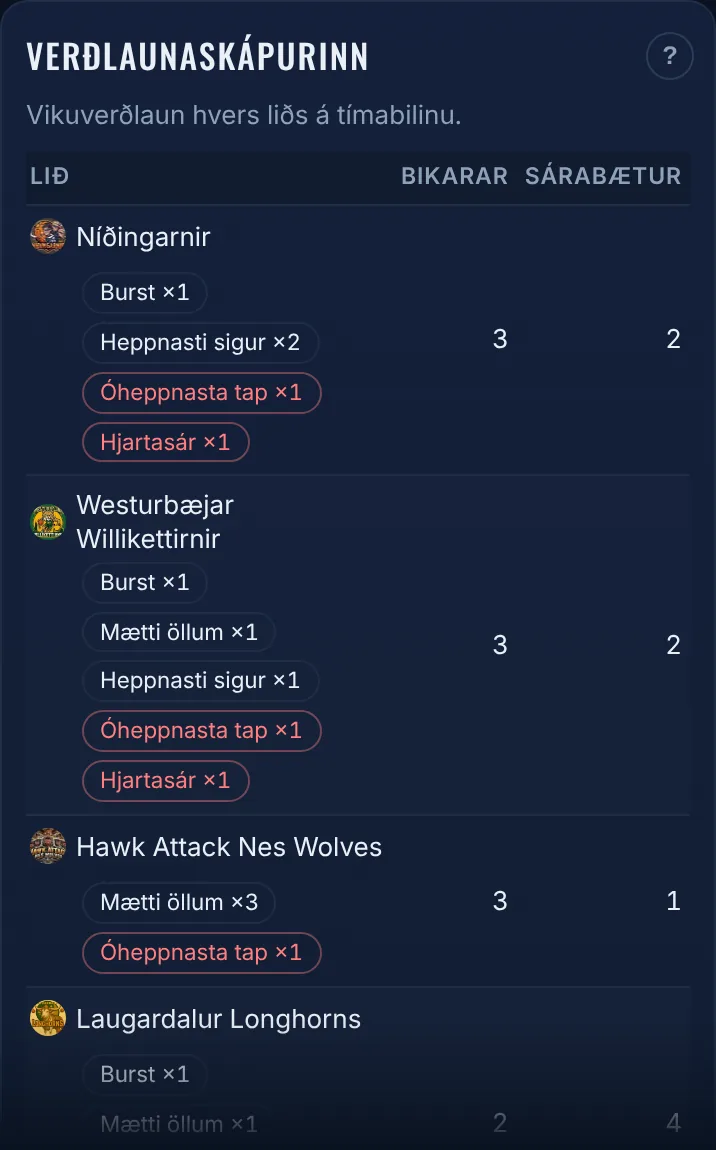
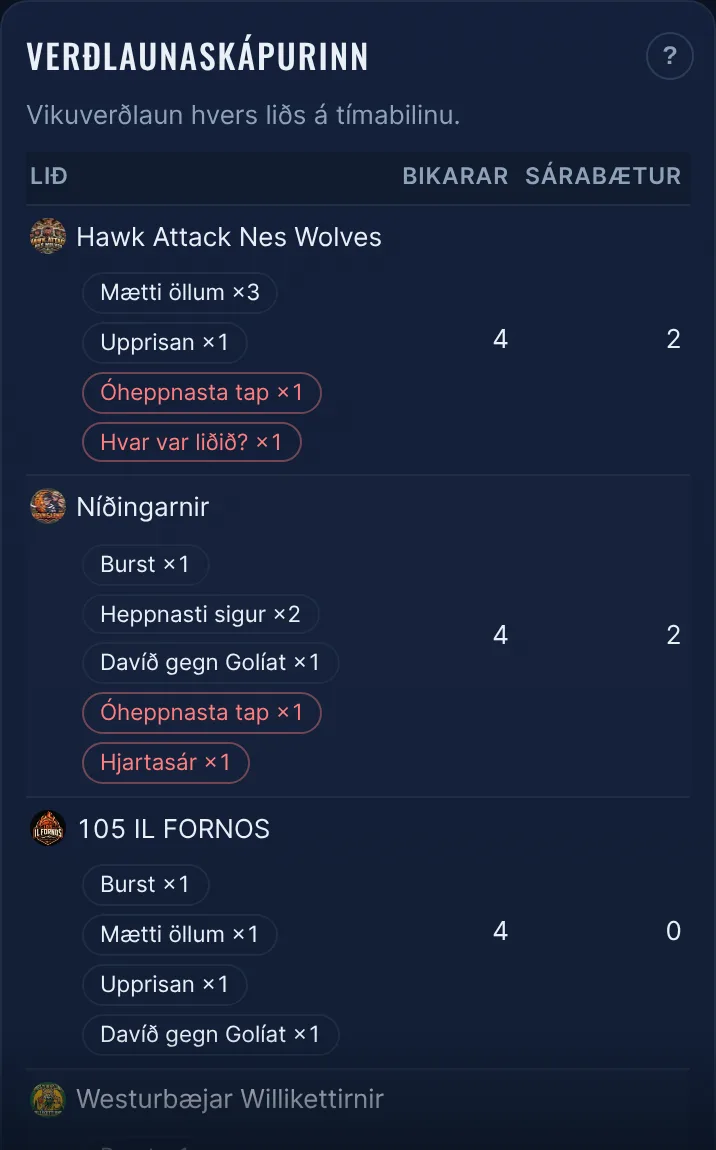
Add four weekly awards: Lenti í liði í stuði, Hvar var liðið mitt?, Upprisan, Davíð gegn Golíat
The awards show on the Vikan card, the Vikuspjald image and in Verðlaunaskápurinn.
Award colours now follow the award, not the position. The Útskýringar text and
screenshots are updated.

Claude-Session: https://claude.ai/code/session_01MjLJrkpXmckZWtqnYsXHCL

diff --git a/index.html b/index.html
@@ -64,10 +64,11 @@ body #dash-root .wx-tab[aria-selected="true"] { background: var(--ice); color: #
 body #dash-root .wx-card, body #dash-root .wx-award, body #dash-root .wx-tile { background: linear-gradient(180deg, #13203a 0%, var(--color-panel) 100%); border-color: var(--color-border-line); }
 body #dash-root .wx-card h3 { font-family: var(--font-display); font-weight: 500; text-transform: uppercase; letter-spacing: .06em; font-size: 1.05rem; }
 body #dash-root .wx-award { border-top: 3px solid var(--ice); }
-body #dash-root .wx-award:nth-child(2) { border-top-color: var(--color-bad); }
-body #dash-root .wx-award:nth-child(3) { border-top-color: var(--orange); }
-body #dash-root .wx-award:nth-child(4) { border-top-color: var(--lilac); }
-body #dash-root .wx-award:nth-child(5) { border-top-color: var(--color-warn); }
+body #dash-root .wx-award[data-award="ohoppni"], body #dash-root .wx-award[data-award="studi"] { border-top-color: var(--color-bad); }
+body #dash-root .wx-award[data-award="burst"], body #dash-root .wx-award[data-award="ovaent"] { border-top-color: var(--orange); }
+body #dash-root .wx-award[data-award="allir"] { border-top-color: var(--lilac); }
+body #dash-root .wx-award[data-award="hjarta"], body #dash-root .wx-award[data-award="hvar"] { border-top-color: var(--color-warn); }
+body #dash-root .wx-award[data-award="upprisa"] { border-top-color: var(--color-ok); }
 body #dash-root .wx-award-t { font-size: 1.3rem; }
 body #dash-root .wx-tile-v { color: #fff; }
 body #dash-root .wx-teamname { font-family: var(--font-display); text-transform: uppercase; font-weight: 700; font-size: clamp(1.8rem, 5vw, 2.6rem); color: #fff; }
@@ -184,6 +185,7 @@ body #dash-root .wx-g2 > .wx-span { grid-column: 1 / -1; }
 @media (max-width: 639px) {
   body #dash-root .wx-awards { grid-template-columns: repeat(2, minmax(0,1fr)); gap: 8px; }
   body #dash-root .wx-award { padding: 10px; }
+  body #dash-root .wx-award:last-child:nth-child(odd) { grid-column: 1 / -1; }
   body #dash-root .wx-award-k { font-size: .64rem; }
   body #dash-root .wx-award-t { font-size: .98rem; line-height: 1.2; }
   body #dash-root .wx-award-t .wx-tn { align-items: flex-start; }
@@ -282,6 +284,7 @@ body #dash-root .wx-duo { display: flex; flex-direction: column; gap: 1rem; min-
 @media (min-width: 900px) {
   body #dash-root .wx-duo { display: grid; grid-template-columns: minmax(0, 26rem) minmax(0, 1fr); align-items: start; }
   body #dash-root .wx-duo .wx-awards { grid-template-columns: repeat(2, minmax(0, 1fr)); }
+  body #dash-root .wx-duo .wx-award:last-child:nth-child(odd) { grid-column: 1 / -1; }
 }
 /* --- Útskýringar (help page) --- */
 body #dash-root .wx-ex { width: 100%; max-width: 44rem; margin: 0 auto; display: flex; flex-direction: column; gap: 1rem; }
@@ -787,7 +790,7 @@ body #dash-root .wx-xs-only-cab { margin: 4px 0 0 26px; }
       <div class="wx-card" id="trophy-card">
         <div class="wx-cardhead"><h3>Verðlaunaskápurinn</h3><button type="button" class="wx-q" aria-expanded="false" aria-label="Skýring"><span>?</span></button></div>
         <p class="wx-note">Vikuverðlaun hvers liðs á tímabilinu.</p>
-        <div class="wx-help" hidden><div><b>Bikarar</b>: burst vikunnar, hefði átt að mæta öllum og heppnasti sigurinn. <b>Sárabætur</b>: óheppnasta tapið og hjartasár vikunnar. Sömu verðlaun og á vikuspjaldinu, ein af hverri tegund á viku.</div></div>
+        <div class="wx-help" hidden><div><b>Bikarar</b>: burst vikunnar, hefði átt að mæta öllum, heppnasti sigurinn, upprisan og Davíð gegn Golíat. <b>Sárabætur</b>: óheppnasta tapið, hjartasár vikunnar, lenti í liði í stuði og hvar var liðið mitt? Sömu verðlaun og á vikuspjaldinu, ein af hverri tegund á viku.</div></div>
         <div class="wx-scroll">
           <table class="wx-t wx-t1 wx-click" id="wx-trophies" data-source="trophies" data-row-key="teamId">
             <thead><tr><th data-field="team">Lið</th><th data-field="cups">Bikarar</th><th data-field="sores">Sárabætur</th><th class="wx-xs-hide" data-field="counts">Í skápnum</th></tr></thead>
@@ -905,21 +908,26 @@ body #dash-root .wx-xs-only-cab { margin: 4px 0 0 26px; }
       <article class="wx-card" id="ex-spjald">
         <h3>Vikuspjaldið</h3>
         <a href="img/utskyringar/spjald.webp" target="_blank" rel="noopener" aria-label="Opna mynd í fullri stærð"><img class="wx-ex-img" src="img/utskyringar/spjald.webp" width="716" height="1150" loading="lazy" alt="Vikuspjaldið"></a>
-        <p>Mynd vikunnar til að senda í spjallið: haltu fingri á henni (eða hægrismelltu) til að vista. Á henni eru fimm verðlaun vikunnar:</p>
+        <p>Mynd vikunnar til að senda í spjallið: haltu fingri á henni (eða hægrismelltu) til að vista. Á henni eru verðlaun vikunnar, þau sömu og á Vikunni:</p>
         <ul>
-          <li><b>Burst vikunnar</b>: stærsti sigurinn.</li>
-          <li><b>Hefði átt að mæta öllum</b>: besta AvA vikunnar.</li>
           <li><b>Heppnasti sigurinn</b>: sigur þrátt fyrir fæst lið unnin í AvA.</li>
           <li><b>Óheppnasta tapið</b>: tap þrátt fyrir flest lið unnin í AvA.</li>
+          <li><b>Burst vikunnar</b>: stærsti sigurinn.</li>
+          <li><b>Hefði átt að mæta öllum</b>: besta AvA vikunnar.</li>
           <li><b>Hjartasár vikunnar</b>: flestir tapaðir tæpir flokkar.</li>
+          <li><b>Lenti í liði í stuði</b>: tapið þar sem mótherjinn spilaði mest yfir eigin meðaltali (AvA vikunnar miðað við meðaltal hans í hinum vikunum, sjá Mótherjinn í stuði).</li>
+          <li><b>Hvar var liðið mitt?</b>: liðið sem spilaði mest undir eigin meðaltali í AvA, hvort sem það vann eða tapaði.</li>
+          <li><b>Upprisan</b>: mesta stökk upp í AvA frá vikunni á undan.</li>
+          <li><b>Davíð gegn Golíat</b>: óvæntasti sigurinn. Fyrir vikuna er borið saman sæti liðanna í töflunni og formið (AvA % síðustu 3 vikna), og sigurinn þar sem sigurvegarinn var samanlagt flestum sætum neðar fær verðlaunin.</li>
         </ul>
+        <p>Í <b>Lenti í liði í stuði</b> og <b>Hvar var liðið mitt?</b> er meðaltalið úr öllum hinum vikunum, líka þeim sem koma seinna, svo verðlaunin geta færst milli liða þegar líður á tímabilið. Þau, Upprisan og Davíð gegn Golíat byrja í 2. viku.</p>
         <div class="wx-more"><button type="button" class="wx-linkbtn" data-goto="vikan">Vikan</button></div>
       </article>
 
       <article class="wx-card" id="ex-skapur">
         <h3>Verðlaunaskápurinn</h3>
         <a href="img/utskyringar/skapur.webp" target="_blank" rel="noopener" aria-label="Opna mynd í fullri stærð"><img class="wx-ex-img" src="img/utskyringar/skapur.webp" width="716" height="1150" loading="lazy" alt="Verðlaunaskápurinn"></a>
-        <p>Öll vikuverðlaun hvers liðs yfir tímabilið. Fyrstu þrjú verðlaunin hér að ofan eru <b>bikarar</b>, hin tvö eru <b>sárabætur</b>.</p>
+        <p>Öll vikuverðlaun hvers liðs yfir tímabilið. <b>Bikarar</b> eru heppnasti sigurinn, burst vikunnar, hefði átt að mæta öllum, upprisan og Davíð gegn Golíat. <b>Sárabætur</b> eru óheppnasta tapið, hjartasár vikunnar, lenti í liði í stuði og hvar var liðið mitt?</p>
         <div class="wx-more"><button type="button" class="wx-linkbtn" data-goto="deildin" data-goseg="met">Deildin → Met</button></div>
       </article>
 
@@ -1127,11 +1135,13 @@ dash.calc('cat_leaders', {
 
 dash.calc('awards', {
   title: 'Verðlaun vikunnar',
-  description: 'Heppnasti sigurinn, óheppnasta tapið, burst vikunnar, besta allir-við-alla vikan og flestir tapaðir tæpir flokkar.',
+  description: 'Heppnasti sigurinn, óheppnasta tapið, burst vikunnar, besta allir-við-alla vikan, flestir tapaðir tæpir flokkar, tap gegn mótherja í stuði, mest undir eigin meðaltali, mesta stökk milli vikna og óvæntasti sigurinn.',
   inputs: ['team_week', 'coinflips'],
   fn: (team_week, coinflips) => {
     const sc = (r) => r.cw + '–' + r.cl + (r.ct ? '–' + r.ct : '');
     const resWord = (r) => (r.res === 1 ? 'sigur' : r.res === 0 ? 'tap' : 'jafntefli');
+    const f11 = (pct) => (pct * 11).toFixed(1).replace('.', ',');
+    const pc = (pct) => Math.round(pct * 100) + ' %';
     const out = [];
     for (const w of [...new Set(team_week.map((r) => r.week))]) {
       const rows = team_week.filter((r) => r.week === w && r.res !== null);
@@ -1144,12 +1154,44 @@ dash.calc('awards', {
       const blow = [...wins].sort((a, b) => b.cw - b.cl - (a.cw - a.cl))[0];
       add('burst', 'Burst vikunnar', blow, blow && `Vann ${blow.opp} ${sc(blow)}.`);
       const best = [...rows].sort((a, b) => b.apPct - a.apPct || b.catPts - a.catPts)[0];
-      add('allir', 'Hefði átt að mæta öllum', best, best && `${best.apW}-${best.apL}-${best.apT} gegn öllum og ${best.catPts} af ${best.catMax} flokkum. Raunin: ${resWord(best)} gegn ${best.opp}.`);
+      add('allir', 'Hefði átt að mæta öllum', best, best && `${best.apW}-${best.apL}-${best.apT} gegn öllum og ${String(best.catPts).replace('.', ',')} af ${best.catMax} flokkum. Raunin: ${resWord(best)} gegn ${best.opp}.`);
       const lostFlips = {};
       for (const f of coinflips.filter((f) => f.week === w && f.outcome === 'L')) (lostFlips[f.teamId] ??= []).push(f.label);
       const hb = Object.entries(lostFlips).sort((a, b) => b[1].length - a[1].length)[0];
       const hbRow = hb && rows.find((r) => r.teamId === hb[0]);
       add('hjarta', 'Hjartasár vikunnar', hbRow, hb && `Tapaði ${hb[1].length} tæpum ${hb[1].length > 1 ? 'flokkum' : 'flokki'}: ${hb[1].join(', ')}.`);
+      // the team's AvA this week against its average in every other week (none until there are two weeks)
+      const own = rows.map((r) => {
+        const rest = team_week.filter((x) => x.teamId === r.teamId && x.week !== w);
+        return rest.length ? { r, base: rest.reduce((s, x) => s + x.apPct, 0) / rest.length } : null;
+      }).filter(Boolean);
+      const vsBase = Object.fromEntries(own.map((o) => [o.r.teamId, o]));
+      const hot = losses.map((r) => ({ r, o: vsBase[r.oppId] })).filter((x) => x.o && x.o.r.apPct > x.o.base)
+        .sort((a, b) => b.o.r.apPct - b.o.base - (a.o.r.apPct - a.o.base) || b.r.apW - a.r.apW)[0];
+      add('studi', 'Lenti í liði í stuði', hot?.r, hot && `Tapaði ${sc(hot.r)} fyrir ${hot.r.opp}, sem vann ${hot.o.r.apW} af 11 liðum í vikunni en vinnur annars ${f11(hot.o.base)} að meðaltali.`);
+      const off = own.filter((o) => o.r.apPct < o.base).sort((a, b) => a.r.apPct - a.base - (b.r.apPct - b.base))[0];
+      add('hvar', 'Hvar var liðið mitt?', off?.r, off && `Vann aðeins ${off.r.apW} af 11 liðum en vinnur annars ${f11(off.base)} að meðaltali. Raunin: ${resWord(off.r)} gegn ${off.r.opp}.`);
+      const prevRow = Object.fromEntries(team_week.filter((x) => x.week === w - 1).map((x) => [x.teamId, x]));
+      const rise = rows.filter((r) => prevRow[r.teamId] && r.apPct > prevRow[r.teamId].apPct)
+        .sort((a, b) => b.apPct - prevRow[b.teamId].apPct - (a.apPct - prevRow[a.teamId].apPct))[0];
+      add('upprisa', 'Upprisan', rise, rise && `Úr ${prevRow[rise.teamId].apW} í ${rise.apW} af 11 liðum milli vikna.`);
+      // upset: the winner's place in the table and in recent form (AvA of the last 3 weeks) before this week, against the loser's
+      const before = team_week.filter((x) => x.week < w && x.res !== null);
+      if (before.length) {
+        const st = {};
+        for (const x of before) {
+          const t = (st[x.teamId] ??= { teamId: x.teamId, g: 0, pts: 0, cats: 0, form: [] });
+          t.g++; t.pts += x.res; t.cats += x.cw + x.ct / 2; t.form.push([x.week, x.apPct]);
+        }
+        const ts = Object.values(st);
+        ts.forEach((t) => { const f = t.form.sort((a, b) => a[0] - b[0]).slice(-3); t.recent = f.reduce((s, x) => s + x[1], 0) / f.length; });
+        [...ts].sort((a, b) => b.pts / b.g - a.pts / a.g || b.cats - a.cats).forEach((t, i) => { t.rank = i + 1; });
+        [...ts].sort((a, b) => b.recent - a.recent).forEach((t, i) => { t.formRank = i + 1; });
+        const up = wins.map((r) => ({ r, me: st[r.teamId], op: st[r.oppId] })).filter((x) => x.me && x.op)
+          .map((x) => ({ ...x, gap: x.me.rank - x.op.rank + x.me.formRank - x.op.formRank }))
+          .filter((x) => x.gap > 0).sort((a, b) => b.gap - a.gap || a.r.apW - b.r.apW)[0];
+        add('ovaent', 'Davíð gegn Golíat', up?.r, up && `Vann ${up.r.opp} ${sc(up.r)}. Fyrir vikuna: ${up.me.rank}. sæti gegn ${up.op.rank}. og form ${pc(up.me.recent)} gegn ${pc(up.op.recent)}.`);
+      }
     }
     return out;
   },
@@ -1157,10 +1199,10 @@ dash.calc('awards', {
 
 dash.calc('trophies', {
   title: 'Verðlaunaskápurinn',
-  description: 'Hve oft hvert lið hefur fengið hver vikuverðlaun á tímabilinu. Bikarar: burst vikunnar, hefði átt að mæta öllum og heppnasti sigurinn. Sárabætur: óheppnasta tapið og hjartasár vikunnar.',
+  description: 'Hve oft hvert lið hefur fengið hver vikuverðlaun á tímabilinu. Bikarar: burst vikunnar, hefði átt að mæta öllum, heppnasti sigurinn, upprisan og Davíð gegn Golíat. Sárabætur: óheppnasta tapið, hjartasár vikunnar, lenti í liði í stuði og hvar var liðið mitt?',
   inputs: ['awards', 'teams'],
   fn: (awards, teams) => {
-    const KINDS = [['burst', 'Burst', 'bikar'], ['allir', 'Mætti öllum', 'bikar'], ['heppni', 'Heppnasti sigur', 'bikar'], ['ohoppni', 'Óheppnasta tap', 'sar'], ['hjarta', 'Hjartasár', 'sar']];
+    const KINDS = [['burst', 'Burst', 'bikar'], ['allir', 'Mætti öllum', 'bikar'], ['heppni', 'Heppnasti sigur', 'bikar'], ['upprisa', 'Upprisan', 'bikar'], ['ovaent', 'Davíð gegn Golíat', 'bikar'], ['ohoppni', 'Óheppnasta tap', 'sar'], ['hjarta', 'Hjartasár', 'sar'], ['studi', 'Lið í stuði', 'sar'], ['hvar', 'Hvar var liðið?', 'sar']];
     return teams.map((t) => {
       const mine = awards.filter((a) => a.teamId === t.teamId);
       const counts = KINDS.map(([k, label, kind]) => ({ award: k, label, kind, n: mine.filter((a) => a.award === k).length, weeks: mine.filter((a) => a.award === k).map((a) => a.week).sort((a, b) => a - b).join(',') }));
@@ -1917,7 +1959,7 @@ dash.calc('week_dates', {
     const rows = awards.filter((r) => r.week === w);
     if (!rows.length) { const p = document.createElement('p'); p.className = 'wx-empty'; p.textContent = 'Engin verðlaun fyrir þessa viku.'; box.appendChild(p); return; }
     for (const r of rows) {
-      const c = document.createElement('div'); c.className = 'wx-award';
+      const c = document.createElement('div'); c.className = 'wx-award'; c.dataset.award = r.award;
       const k = document.createElement('div'); k.className = 'wx-award-k'; k.textContent = r.title;
       const t = document.createElement('div'); t.className = 'wx-award-t'; t.dataset.source = 'awards'; t.dataset.field = 'team'; t.dataset.where = 'key=' + r.key; t.appendChild(withLogo(r.teamId, r.team, 28, w));
       const d = document.createElement('div'); d.className = 'wx-award-d'; d.dataset.source = 'awards'; d.dataset.field = 'text'; d.dataset.where = 'key=' + r.key; d.textContent = r.text;
@@ -2150,7 +2192,7 @@ dash.calc('week_dates', {
   // ---------- Recap card ----------
   function drawRecap(awards, season, teamWeek, w, sample) {
     const box = root.querySelector('#wx-recap');
-    const W = 1080, H = 2000, c = document.createElement('canvas'); c.width = W; c.height = H;
+    const W = 1080, H = 2800, c = document.createElement('canvas'); c.width = W; c.height = H;
     const x = c.getContext('2d');
     const css = getComputedStyle(root);
     const sans = css.getPropertyValue('--font-anthropic-sans').trim() || 'system-ui, sans-serif';
@@ -2164,15 +2206,16 @@ dash.calc('week_dates', {
     if (weekDates(w)) { x.fillStyle = '#9fb3c8'; x.font = `400 36px ${sans}`; x.fillText(weekDates(w), 72 + vw + 28, 206); }
     if (sample) { x.fillStyle = '#ffcc66'; x.font = `600 28px ${sans}`; x.fillText('SÝNIGÖGN – EKKI RAUNVERULEG ÚRSLIT', 72, 260); }
     const wrap = (text, maxW) => { const words = text.split(' '); const lines = []; let l = ''; for (const wd of words) { const tst = l ? l + ' ' + wd : wd; if (x.measureText(tst).width > maxW && l) { lines.push(l); l = wd; } else l = tst; } if (l) lines.push(l); return lines; };
-    let yy = 330;
+    let yy = 320;
     for (const a of awards.filter((r) => r.week === w)) {
-      x.fillStyle = '#7cc4ff'; x.font = `600 24px ${sans}`; x.fillText(a.title.toUpperCase(), 72, yy);
+      x.fillStyle = '#7cc4ff'; x.font = `600 22px ${sans}`; x.fillText(a.title.toUpperCase(), 72, yy);
       const li = logoImgs[a.teamId];
-      if (li && li.complete && li.naturalWidth) { x.save(); x.beginPath(); x.arc(72 + 22, yy + 38, 22, 0, Math.PI * 2); x.clip(); x.drawImage(li, 72, yy + 16, 44, 44); x.restore(); }
-      x.fillStyle = '#ffffff'; x.font = `400 44px ${serif}`; x.fillText(a.team, li && li.naturalWidth ? 128 : 72, yy + 52);
-      x.fillStyle = '#c7d3e0'; x.font = `400 26px ${sans}`;
-      wrap(a.text, W - 144).forEach((ln, i) => x.fillText(ln, 72, yy + 92 + i * 34));
-      yy += 92 + wrap(a.text, W - 144).length * 34 + 30;
+      if (li && li.complete && li.naturalWidth) { x.save(); x.beginPath(); x.arc(72 + 20, yy + 34, 20, 0, Math.PI * 2); x.clip(); x.drawImage(li, 72, yy + 14, 40, 40); x.restore(); }
+      x.fillStyle = '#ffffff'; x.font = `400 40px ${serif}`; x.fillText(a.team, li && li.naturalWidth ? 124 : 72, yy + 47);
+      x.fillStyle = '#c7d3e0'; x.font = `400 25px ${sans}`;
+      const lines = wrap(a.text, W - 144);
+      lines.forEach((ln, i) => x.fillText(ln, 72, yy + 82 + i * 30));
+      yy += 82 + lines.length * 30 + 16;
     }
     yy += 10;
     x.fillStyle = '#9fb3c8'; x.font = `600 24px ${sans}`; x.fillText('HEPPNI TÍMABILSINS', 72, yy);
